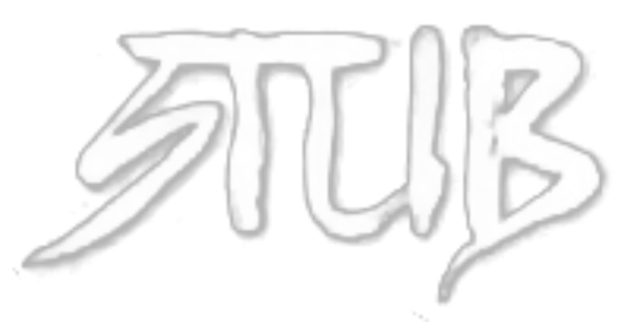
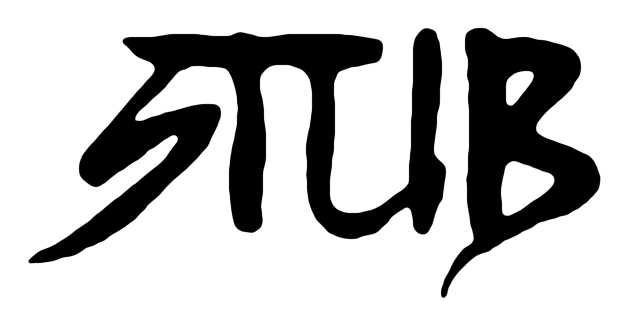
Remove unused assets
Change image order

diff --git a/galleric-frontend/components/MoroccoCollectionComponent.tsx b/galleric-frontend/components/MoroccoCollectionComponent.tsx
@@ -44,10 +44,10 @@ const MoroccoCollectionComponent = ({ collection }: ISlideComponent): JSX.Elemen
                         whileInView="visible"
                         viewport={{ once: true, amount: 0.8 }}
                         style={{ y: 0, x: 0 }}>
-                        {images[0] && (
+                        {images[2] && (
                             <Image
                                 alt="Morocco First Photo"
-                                src={images[0].url}
+                                src={images[2].url}
                                 layout="fill"
                                 objectFit="cover"
                             />
@@ -62,10 +62,10 @@ const MoroccoCollectionComponent = ({ collection }: ISlideComponent): JSX.Elemen
                         whileInView="visible"
                         viewport={{ once: true, amount: 0.8 }}
                         style={{ y: 0, x: 0 }}>
-                        {images[1] && (
+                        {images[0] && (
                             <Image
                                 alt="Morocco Eye Photo"
-                                src={images[1].url}
+                                src={images[0].url}
                                 layout="fill"
                                 objectFit="cover"
                             />
@@ -101,10 +101,10 @@ const MoroccoCollectionComponent = ({ collection }: ISlideComponent): JSX.Elemen
                             initial="hidden"
                             whileInView="visible"
                             viewport={{ once: true, amount: 0.8 }}>
-                            {images[0] && (
+                            {images[2] && (
                                 <Image
                                     alt="Morocco First Photo"
-                                    src={images[0].url}
+                                    src={images[2].url}
                                     layout="fill"
                                     objectFit="cover"
                                 />
@@ -117,10 +117,10 @@ const MoroccoCollectionComponent = ({ collection }: ISlideComponent): JSX.Elemen
                         initial="hidden"
                         whileInView="visible"
                         viewport={{ once: true, amount: 0.8 }}>
-                        {images[1] && (
+                        {images[0] && (
                             <Image
                                 alt="Morocco Eye Photo"
-                                src={images[1].url}
+                                src={images[0].url}
                                 layout="fill"
                                 objectFit="cover"
                             />

diff --git a/galleric-frontend/components/MonochromeCollectionComponent.tsx b/galleric-frontend/components/MonochromeCollectionComponent.tsx
@@ -80,10 +80,10 @@ const MonochromeCollectionComponent = ({ collection }: ISlideComponent): JSX.Ele
                         whileInView="visible"
                         viewport={{ once: true, amount: 0.8 }}
                         style={{ y: 0, x: 0 }}>
-                        {images[3] && (
+                        {images[4] && (
                             <Image
                                 alt="Monochrome Last Photo"
-                                src={images[3].url}
+                                src={images[4].url}
                                 layout="fill"
                                 objectFit="cover"
                             />
@@ -133,10 +133,10 @@ const MonochromeCollectionComponent = ({ collection }: ISlideComponent): JSX.Ele
                             initial="hidden"
                             whileInView="visible"
                             viewport={{ once: true, amount: 0.8 }}>
-                            {images[3] && (
+                            {images[4] && (
                                 <Image
                                     alt="Monochrome Last Photo"
-                                    src={images[3].url}
+                                    src={images[4].url}
                                     layout="fill"
                                     objectFit="cover"
                                 />

diff --git a/galleric-frontend/pages/index.tsx b/galleric-frontend/pages/index.tsx
@@ -54,7 +54,7 @@ const IndexPage = ({ frontpageData }: IFrontpageData): JSX.Element => {
                         <MonochromeCollectionComponent collection={monochromeCollection} />
                     )}
                     {monochromeCollection && (
-                        <FooterComponent wallpaperUrl={monochromeCollection?.images[1].url} />
+                        <FooterComponent wallpaperUrl={monochromeCollection?.images[3].url} />
                     )}
                 </Background>
             </div>

diff --git a/galleric-frontend/components/NavBar.tsx b/galleric-frontend/components/NavBar.tsx
@@ -134,6 +134,7 @@ const NavBar = (): JSX.Element => {
                             onClick={() => handleSetOpen(false)}>
                             <a>
                                 <Image
+                                    className="filter invert"
                                     src="/images/stub_sig.png"
                                     alt="svanhild stub signature"
                                     width={100}

diff --git a/galleric-frontend/components/WelcomeComponent.tsx b/galleric-frontend/components/WelcomeComponent.tsx
@@ -104,6 +104,7 @@ const WelcomeComponent = ({ wallpaperUrl, sigUrl, stampUrl }: IWelcomeComponent)
             {wallpaperUrl && (
                 <Image
                     src={wallpaperUrl}
+                    priority
                     className="select-none"
                     alt="Background image"
                     layout="fill"
